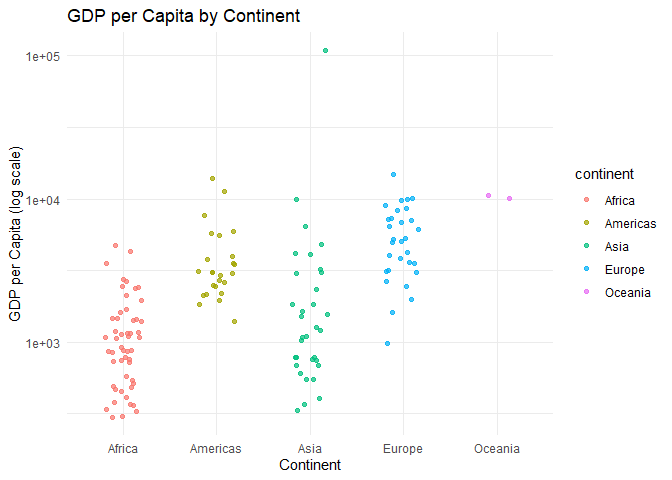
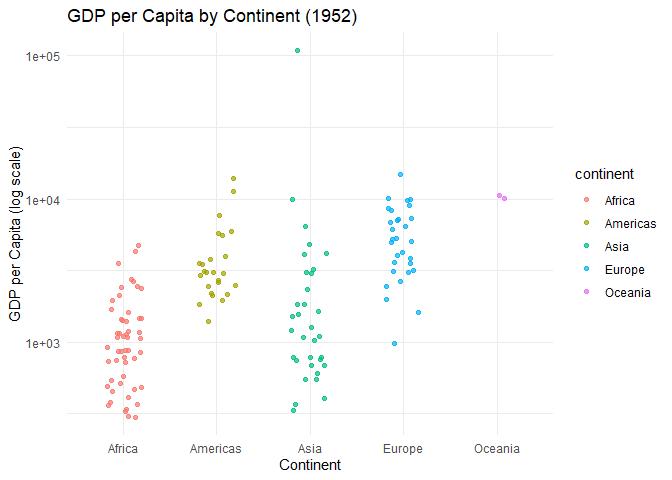
Resubmit Assignment 4

diff --git a/challenges/c04-gapminder-assignment.md b/challenges/c04-gapminder-assignment.md
@@ -105,18 +105,6 @@ you’ll be responsible for doing another cycle of EDA on your own!
 
 ``` r
 ## TASK: Do your "first checks" here!
-str(gapminder)
-```
-
-    ## tibble [1,704 × 6] (S3: tbl_df/tbl/data.frame)
-    ##  $ country  : Factor w/ 142 levels "Afghanistan",..: 1 1 1 1 1 1 1 1 1 1 ...
-    ##  $ continent: Factor w/ 5 levels "Africa","Americas",..: 3 3 3 3 3 3 3 3 3 3 ...
-    ##  $ year     : int [1:1704] 1952 1957 1962 1967 1972 1977 1982 1987 1992 1997 ...
-    ##  $ lifeExp  : num [1:1704] 28.8 30.3 32 34 36.1 ...
-    ##  $ pop      : int [1:1704] 8425333 9240934 10267083 11537966 13079460 14880372 12881816 13867957 16317921 22227415 ...
-    ##  $ gdpPercap: num [1:1704] 779 821 853 836 740 ...
-
-``` r
 glimpse(gapminder)
 ```
 
@@ -163,6 +151,7 @@ summary(gapminder)
 ``` r
 ## TASK: Find the largest and smallest values of `year` in `gapminder`
 year_max <- gapminder %>% summarize(max_year = max(year)) %>% pull(max_year)
+
 year_min <- gapminder %>% summarize(min_year = min(year)) %>% pull(min_year)
 ```
 
@@ -215,10 +204,14 @@ can.
 gapminder %>%
   filter(year == year_min) %>%
   ggplot(aes(x = continent, y = gdpPercap, color = continent)) +
-  geom_jitter(width = 0.2, alpha = 0.7) +
+  geom_jitter(width = 0.2, height = 0, alpha = 0.7) +
   scale_y_log10() +
   theme_minimal() +
-  labs(title = "GDP per Capita by Continent", x = "Continent", y = "GDP per Capita (log scale)")
+  labs(
+    title = "GDP per Capita by Continent (1952)",
+    x     = "Continent",
+    y     = "GDP per Capita (log scale)"
+  )
 ```
 
 ![](c04-gapminder-assignment_files/figure-gfm/q2-task-1.png)<!-- -->
@@ -228,6 +221,9 @@ gapminder %>%
 - GDP per capita varies significantly across continents. Also, the
   scatter plot provides a clearer view of the spread of GDP per capita
   values within each continent.
+- There is a wide spread of africa and the americas that span several
+  orders of magnitude. Oceania and Asia also cluster low excpet for a
+  few high points.
 
 **Difficulties & Approaches**:
 
@@ -240,27 +236,44 @@ gapminder %>%
 
 ``` r
 ## TASK: Identify the outliers from q2
-outliers <- gapminder %>%
-  filter(year == year_min) %>%
-  arrange(desc(gdpPercap)) %>%
-  head(5) %>%
-  select(country, gdpPercap)
-outliers
+gm_min <- gapminder %>% filter(year == year_min)
+q1 <- quantile(gm_min$gdpPercap, 0.25)
+q3 <- quantile(gm_min$gdpPercap, 0.75)
+iqr <- q3 - q1
+lower_bound <- q1 - 1.5 * iqr
+upper_bound <- q3 + 1.5 * iqr
+
+outliers <- gm_min %>%
+  filter(gdpPercap > upper_bound) %>%  # Only high outliers per q2's plot
+  select(country, continent, gdpPercap) %>%
+  arrange(desc(gdpPercap))
+
+print(outliers)
 ```
 
-    ## # A tibble: 5 × 2
-    ##   country       gdpPercap
-    ##   <fct>             <dbl>
-    ## 1 Kuwait          108382.
-    ## 2 Switzerland      14734.
-    ## 3 United States    13990.
-    ## 4 Canada           11367.
-    ## 5 New Zealand      10557.
+    ## # A tibble: 12 × 3
+    ##    country        continent gdpPercap
+    ##    <fct>          <fct>         <dbl>
+    ##  1 Kuwait         Asia        108382.
+    ##  2 Switzerland    Europe       14734.
+    ##  3 United States  Americas     13990.
+    ##  4 Canada         Americas     11367.
+    ##  5 New Zealand    Oceania      10557.
+    ##  6 Norway         Europe       10095.
+    ##  7 Australia      Oceania      10040.
+    ##  8 United Kingdom Europe        9980.
+    ##  9 Bahrain        Asia          9867.
+    ## 10 Denmark        Europe        9692.
+    ## 11 Netherlands    Europe        8942.
+    ## 12 Sweden         Europe        8528.
 
 **Observations**:
 
 - Identify the outlier countries from q2
-  - Kuwait is the outlierr.
+  - Kuwait
+  - USA
+  - Switzerland
+  - New Zealand
 
 *Hint*: For the next task, it’s helpful to know a ggplot trick we’ll
 learn in an upcoming exercise: You can use the `data` argument inside
@@ -293,22 +306,40 @@ variables; think about using different aesthetics or facets.
 ## TASK: Create a visual of gdpPercap vs continent
 gapminder %>%
   filter(year %in% c(year_min, year_max)) %>%
-  ggplot(aes(x = continent, y = gdpPercap, color = continent)) +
-  geom_jitter(width = 0.2, alpha = 0.7) +
-  scale_y_log10() +
+  ggplot(aes(continent, gdpPercap)) +
+  geom_jitter(aes(color = continent), alpha = 0.5, width = 0.2) +
+  geom_text(
+    data = . %>% filter(country %in% outliers$country),  # Use pre-defined outliers
+    aes(label = country), 
+    size = 3, 
+    hjust = -0.1,
+    vjust = 0.5
+  ) +
   facet_wrap(~year) +
-  theme_minimal() +
-  labs(title = "GDP per Capita by Continent Over Time", x = "Continent", y = "GDP per Capita (log scale)")
+  scale_y_log10() +
+  labs(
+    title = "GDP per Capita by Continent (1952 vs. 2007)",
+    subtitle = "Outliers labeled by country",
+    x = "Continent",
+    y = "GDP per Capita (log scale)"
+  ) +
+  theme_minimal()
 ```
 
 ![](c04-gapminder-assignment_files/figure-gfm/q4-task-1.png)<!-- -->
 
 **Observations**:
 
-- The GDP per capita distribution has evolved over time, with some
-  continents showing significant growth. -The highlighted points reveal
-  that certain high-GDP nations remained outliers in both `year_min` and
-  `year_max`.
+- **Growth Patterns:**
+  - **Asia** saw dramatic growth (e.g., Kuwait’s GDP dropped post-1952,
+    but Japan/Singapore emerged as high-GDP nations).
+
+  - **Africa** remained low-GDP, with no outliers in 2007.
+
+  - **Europe** and **Oceania** maintained high GDP, though outliers
+    shifted (e.g., Norway surpassed Switzerland).
+- **Outliers:** In 2007, new high-GDP countries appeared (e.g., Ireland,
+  Qatar), while some 1952 outliers (e.g., Kuwait) fell behind.
 
 # Your Own EDA
 
@@ -324,11 +355,17 @@ the relationship between variables, or something else entirely.
 ``` r
 ## TASK: Your first graph
 gapminder %>%
-  ggplot(aes(x = year, y = gdpPercap, group = continent, color = continent)) +
+  group_by(continent, year) %>%
+  summarize(mean_gdp = mean(gdpPercap), .groups = "drop") %>%
+  ggplot(aes(year, mean_gdp, color = continent)) +
   geom_line(size = 1) +
   scale_y_log10() +
-  theme_minimal() +
-  labs(title = "GDP per Capita Change by Continent", x = "Year", y = "GDP per Capita (log scale)")
+  labs(
+    title = "Mean GDP per Capita by Continent (1952–2007)",
+    x = "Year",
+    y = "Mean GDP per Capita (log scale)"
+  ) +
+  theme_minimal()
 ```
 
     ## Warning: Using `size` aesthetic for lines was deprecated in ggplot2 3.4.0.
@@ -339,11 +376,10 @@ gapminder %>%
 
 ![](c04-gapminder-assignment_files/figure-gfm/q5-task1-1.png)<!-- -->
 
-- The GDP per capita change by continent shows overall growth, with
-  Europe and the Americas leading, Asia rising rapidly, and Africa
-  lagging but improving. The log scale highlights differences, though
-  continent-level grouping hides internal disparities. A country-level
-  breakdown or event annotations could add deeper insight.
+- **Asia** and **Europe** show steep growth post-1980, likely due to
+  industrialization (Asia) and post-war recovery (Europe).
+- **Africa**’s growth is flat, suggesting systemic barriers.
+- **Americas** and **Oceania** grew steadily but were outpaced by Asia.
 
 ``` r
 ## TASK: Your second graph
@@ -377,10 +413,12 @@ gapminder %>%
 
 ![](c04-gapminder-assignment_files/figure-gfm/q5-task3-1.png)<!-- -->
 
-- The Life Expectancy vs. Population Size plot shows no strong
-  correlation, suggesting that a country’s population size doesn’t
-  directly impact life expectancy. However, smaller countries tend to
-  have more variation, while larger nations cluster around global
-  averages. The log scale helps visualize differences among smaller
-  populations, but regional and economic factors likely play a bigger
-  role in life expectancy.
+- **No Correlation:** Population size alone doesn’t predict life
+  expectancy. For example:
+  - Small populations (e.g., Iceland, Caribbean nations) achieve high
+    life expectancy.
+
+  - Large populations (e.g., India, China) show mid-range life
+    expectancy, influenced by GDP/healthcare access.
+- **Confounding Factors:** GDP (from Plot 2) and healthcare systems
+  likely play larger roles than population size.
